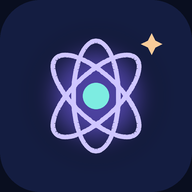
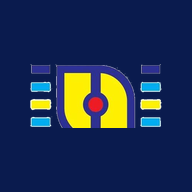
Add files via upload

diff --git a/index.html b/index.html
@@ -3,10 +3,10 @@
 <head>
   <meta charset="UTF-8">
   <meta name="viewport" content="width=device-width, initial-scale=1, viewport-fit=cover">
-  <meta name="theme-color" content="#0B1026">
+  <meta name="theme-color" content="#1E2F8A">
   <meta name="description" content="Física Abel Coelho: trilhas de estudo, fórmulas, desafios e um laboratório interativo. Instale e estude até sem internet.">
   <meta name="apple-mobile-web-app-capable" content="yes">
-  <meta name="apple-mobile-web-app-status-bar-style" content="black-translucent">
+  <meta name="apple-mobile-web-app-status-bar-style" content="default">
   <meta name="apple-mobile-web-app-title" content="Física Abel">
   <meta name="color-scheme" content="dark">
   <meta property="og:title" content="Física • Abel Coelho">
@@ -25,8 +25,8 @@
   <div class="app-shell">
     <header class="topbar">
       <a class="brand" href="#inicio" data-go="inicio" aria-label="Física Abel Coelho - início">
-        <span class="brand-icon" aria-hidden="true"><svg viewBox="0 0 48 48" fill="none"><circle cx="24" cy="24" r="4.4" fill="currentColor"/><ellipse cx="24" cy="24" rx="18" ry="8.4" stroke="currentColor" stroke-width="2.6" transform="rotate(-38 24 24)"/><ellipse cx="24" cy="24" rx="18" ry="8.4" stroke="currentColor" stroke-width="2.6" transform="rotate(38 24 24)"/></svg></span>
-        <span class="brand-copy"><strong>FÍSICA<span class="brand-dot">.</span></strong><small>ABEL COELHO</small></span>
+        <span class="brand-icon" aria-hidden="true"><img src="./assets/logo-abel-mark.png" alt=""></span>
+        <span class="brand-copy"><strong>FÍSICA<span class="brand-dot">.</span></strong><small>ESCOLA ESTADUAL PROFESSOR ABEL FREIRE COELHO</small></span>
       </a>
       <nav class="desktop-nav" aria-label="Navegação principal">
         <a href="#inicio" class="nav-link active" data-go="inicio">Início</a>
@@ -43,16 +43,16 @@
 
     <main id="main" tabindex="-1">
       <section class="view active" id="view-inicio" data-view="inicio" aria-labelledby="home-heading">
-        <div class="eyebrow greeting"><span class="eyebrow-line"></span> PLATAFORMA DE APRENDIZAGEM <span class="eyebrow-year">/ 2026</span></div>
+        <div class="eyebrow greeting"><span class="eyebrow-line"></span> PÁGINA INSTITUCIONAL DE FÍSICA <span class="eyebrow-year">/ ABEL COELHO</span></div>
         <section class="hero">
           <div class="hero-content">
-            <div class="hero-tag"><span class="live-dot"></span> SUA JORNADA COMEÇA AQUI</div>
+            <div class="hero-tag"><span class="live-dot"></span> IDENTIDADE VISUAL OFICIAL DA ESCOLA</div>
             <h1 id="home-heading">A Física está <em>em tudo.</em><br>Descubra o porquê.</h1>
-            <p>Das estrelas ao movimento de uma bola, explore as leis que explicam o universo — de um jeito simples, visual e interativo.</p>
+            <p>Das estrelas ao movimento de uma bola, explore as leis que explicam o universo em uma página institucional de Física com a identidade visual da Escola Estadual Professor Abel Freire Coelho.</p>
             <div class="hero-buttons"><button type="button" class="button button-primary" data-action="go-trilhas">Começar a estudar <span aria-hidden="true">↗</span></button><button type="button" class="button button-ghost" data-action="go-lab">Explorar laboratório <span aria-hidden="true">→</span></button></div>
-            <div class="hero-caption"><span class="tiny-stars" aria-hidden="true">✦ ✦ ✦</span> Feito para aprender no seu ritmo</div>
+            <div class="hero-caption"><span class="tiny-stars" aria-hidden="true">✦ ✦ ✦</span> Projeto institucional com a marca e as cores do Abel Coelho</div>
           </div>
-          <div class="hero-art" aria-hidden="true"><div class="art-glow"></div><div class="orbit-ring ring-a"></div><div class="orbit-ring ring-b"></div><div class="orbit-ring ring-c"></div><div class="orb-center"><span>Φ</span></div><div class="orbit-planetoid orb-a"></div><div class="orbit-planetoid orb-b"></div><div class="orbit-planetoid orb-c"></div><span class="art-star star-a">✧</span><span class="art-star star-b">✳</span><span class="art-star star-c">✦</span><span class="art-coordinate coordinate-top">E = mc²</span><span class="art-coordinate coordinate-bottom">F = m · a</span></div>
+          <div class="hero-art school-hero-art" aria-hidden="true"><div class="school-logo-card"><img src="./assets/logo-abel-full.png" alt="Logo da Escola Estadual Professor Abel Freire Coelho"></div><div class="school-color-ribbon ribbon-left"></div><div class="school-color-ribbon ribbon-right"></div><div class="school-color-chip chip-blue"></div><div class="school-color-chip chip-cyan"></div><div class="school-color-chip chip-yellow"></div><div class="school-color-chip chip-red"></div></div>
           <div class="hero-corner hero-corner-top" aria-hidden="true"></div><div class="hero-corner hero-corner-bottom" aria-hidden="true"></div>
         </section>
         <section class="stats-row" aria-label="Recursos disponíveis"><div class="stat"><div class="stat-icon violet">◈</div><div><strong>6</strong><span>Trilhas de estudo</span></div></div><div class="stat"><div class="stat-icon cyan">⌁</div><div><strong>18</strong><span>Aulas rápidas</span></div></div><div class="stat"><div class="stat-icon amber">✦</div><div><strong>3</strong><span>Desafios</span></div></div><div class="stat"><div class="stat-icon green">↓</div><div><strong>Offline</strong><span>Estude sem internet</span></div></div></section>
@@ -70,7 +70,7 @@
 
       <section class="view" id="view-formulas" data-view="formulas" aria-labelledby="formulas-heading" hidden><div class="page-head"><div><div class="eyebrow small">SEU GUIA DE CONSULTA</div><h1 id="formulas-heading">Fórmulas que <em>conectam.</em></h1><p>Um resumo prático de equações essenciais. Use a busca para encontrar o que precisa.</p></div><div class="page-head-symbol formula-symbol">ƒ</div></div><div class="formulas-toolbar"><label class="search-box" for="formulaSearch"><svg viewBox="0 0 24 24" width="19" height="19" fill="none" stroke="currentColor" stroke-width="2" aria-hidden="true"><circle cx="11" cy="11" r="7"/><path d="m16 16 5 5"/></svg><input type="search" id="formulaSearch" placeholder="Buscar fórmula, conceito ou símbolo..." autocomplete="off"></label><span id="formulaCount" class="formula-count"></span></div><div class="filter-row formula-filters" id="formulaFilters" role="group" aria-label="Filtrar fórmulas"></div><div class="formulas-grid" id="formulasGrid"></div><p class="empty-state" id="formulasEmpty" hidden>Nenhuma fórmula encontrada. Tente outro termo.</p><p class="formulas-note">* As fórmulas têm hipóteses de aplicação específicas, explicadas nas aulas. Use unidades do Sistema Internacional (SI) sempre que possível.</p></section>
 
-      <footer class="footer"><span><strong>FÍSICA<span class="period">.</span></strong> ABEL COELHO</span><span>Projeto educacional independente • Escola Estadual Professor Abel Freire Coelho</span><span>Feito com curiosidade ✳</span></footer>
+      <footer class="footer"><span class="footer-brand"><img src="./assets/logo-abel-mark.png" alt=""><span><strong>FÍSICA<span class="period">.</span></strong> ABEL COELHO</span></span><span>Página institucional • Escola Estadual Professor Abel Freire Coelho</span><span>Feito com curiosidade ✳</span></footer>
     </main>
 
     <nav class="mobile-nav" aria-label="Navegação móvel"><a href="#inicio" data-go="inicio" class="mobile-link active"><span class="mobile-icon" aria-hidden="true">⌂</span><span>Início</span></a><a href="#trilhas" data-go="trilhas" class="mobile-link"><span class="mobile-icon" aria-hidden="true">▤</span><span>Trilhas</span></a><a href="#laboratorio" data-go="laboratorio" class="mobile-link"><span class="mobile-icon" aria-hidden="true">⌁</span><span>Lab</span></a><a href="#desafios" data-go="desafios" class="mobile-link"><span class="mobile-icon" aria-hidden="true">◎</span><span>Desafios</span></a><a href="#formulas" data-go="formulas" class="mobile-link"><span class="mobile-icon" aria-hidden="true">ƒ</span><span>Fórmulas</span></a></nav>

diff --git a/styles.css b/styles.css
@@ -16,3 +16,89 @@
 
 /* Impede que o brilho decorativo crie rolagem horizontal em telas pequenas. */
 @media(max-width:620px){.ambient-two{display:none}}
+
+/* === Identidade visual Abel Coelho === */
+:root{
+  --bg:#091739;
+  --surface:#112452;
+  --surface2:#163066;
+  --line:#3556a6;
+  --muted:#c1d0ee;
+  --text:#f7fbff;
+  --purple:#293a98;
+  --purple2:#4155c5;
+  --cyan:#1fb2eb;
+  --orange:#f3e400;
+  --red:#ef2f37;
+}
+body{background:linear-gradient(180deg,#091739 0%,#0a1b43 100%)}
+.ambient-one{background:#263d95;opacity:.28}
+.ambient-two{background:#1fb2eb;opacity:.16}
+.topbar{border-bottom:1px solid rgba(74,118,214,.35)}
+.brand{gap:14px}
+.brand-icon{height:54px;width:54px;background:#fff;border:1px solid rgba(243,228,0,.5);box-shadow:0 10px 28px rgba(14,33,90,.35);border-radius:16px;overflow:hidden;padding:5px}
+.brand-icon img{width:100%;height:100%;object-fit:contain;display:block}
+.brand-copy strong{font-size:22px;color:#ffffff}
+.brand-copy small{max-width:265px;color:#dce6ff;letter-spacing:.11em;line-height:1.25}
+.brand-dot,.period{color:var(--orange)}
+.desktop-nav{background:rgba(17,36,82,.75);border-color:rgba(95,130,215,.36)}
+.nav-link.active{background:#294799;color:#fff}
+.install-btn{border:1px solid #f3e400;background:linear-gradient(135deg,#f3e400,#ffe95d);color:#18255a;box-shadow:0 6px 22px rgba(243,228,0,.28)}
+.eyebrow,.dialog-overline,.insight-top,.install-guide span,.lesson-overline{color:#8edcff}
+.eyebrow-line{background:var(--orange)}
+.hero{background:radial-gradient(circle at 75% 35%,rgba(31,178,235,.26) 0%,transparent 34%),linear-gradient(120deg,#10285f 0%,#142f70 55%,#1d2e84 100%);border:1px solid rgba(120,164,255,.42)}
+.hero-tag{background:rgba(255,255,255,.09);border:1px solid rgba(243,228,0,.38);color:#fff4a6}
+.live-dot{background:var(--orange);box-shadow:0 0 0 4px rgba(243,228,0,.2)}
+.hero h1 em,.page-head h1 em{color:#ffe95d}
+.button-primary{border:1px solid #f3e400;background:#f3e400;color:#16255d;box-shadow:0 10px 24px rgba(243,228,0,.23)}
+.button-ghost{border:1px solid rgba(170,205,255,.45);background:rgba(255,255,255,.08)}
+.button-light{background:#ffffff;color:#172863}
+.school-hero-art{display:flex;align-items:center;justify-content:center}
+.school-logo-card{width:min(100%,430px);background:rgba(255,255,255,.96);border:1px solid rgba(26,56,134,.22);border-radius:28px;padding:22px;box-shadow:0 22px 50px rgba(6,16,43,.28);position:relative;z-index:2}
+.school-logo-card img{width:100%;display:block;object-fit:contain}
+.school-color-ribbon{position:absolute;width:20px;height:210px;border-radius:18px;background:linear-gradient(180deg,#293a98 0%,#1fb2eb 35%,#f3e400 66%,#293a98 100%);opacity:.9;filter:drop-shadow(0 0 14px rgba(255,255,255,.18))}
+.ribbon-left{left:16px;top:72px}
+.ribbon-right{right:18px;bottom:58px}
+.school-color-chip{position:absolute;border-radius:50%;width:22px;height:22px;border:2px solid rgba(255,255,255,.55);box-shadow:0 0 0 8px rgba(255,255,255,.05)}
+.chip-blue{background:#293a98;right:12%;top:12%}
+.chip-cyan{background:#1fb2eb;left:13%;top:18%}
+.chip-yellow{background:#f3e400;left:20%;bottom:13%}
+.chip-red{background:#ef2f37;right:16%;bottom:11%}
+.stat-icon.violet,.quick-icon.purple,.page-head-symbol,.hero-corner,.filter-pill.selected,.formula-category,.mobile-link.active{background-color:rgba(41,58,152,.18);color:#dbe5ff}
+.stat-icon.cyan,.quick-icon.turquoise,.lab-symbol{background-color:rgba(31,178,235,.16);color:#84e0ff}
+.stat-icon.amber,.quick-icon.orange,.challenge-symbol{background-color:rgba(243,228,0,.15);color:#fff18c}
+.stat{background:#10224e;border-color:#274790}
+.continue-card{background:linear-gradient(135deg,#29419d,#1e2f8a);border-color:rgba(243,228,0,.28)}
+.progress-circle{background:conic-gradient(#f3e400 calc(var(--progress)*1%),rgba(255,255,255,.14) 0)}
+.progress-circle>div{background:#1a2b76}
+.insight-card{background:radial-gradient(ellipse at right top,rgba(31,178,235,.35) 0%,transparent 58%),#0f2a62;border-color:#2f5aa7}
+.insight-symbol,.formula-equation{color:#9be6ff}
+.text-link{color:#ffe95d}
+.quick-card,.track-card,.formula-card,.quiz-card,.quiz-box,.lab-controls,.lab-stage,.learning-summary,.install-guide>div,.search-box{background-color:#112452;border-color:#2d4e99}
+.track-meta span,.formula-count,.formula-card p,.page-head p,.formulas-note,.search-box input::placeholder{color:#bfd0ef}
+.track-chip{background:rgba(255,255,255,.08)}
+.track-badge{background:#f3e400;color:#1c295e}
+.filter-pill{border-color:#3556a6;background:#0d1f4b;color:#d6e3ff}
+.filter-pill.selected{background:#294799;color:#fff;border-color:#4f74d5}
+.learning-track,.slider-field input[type="range"],.quiz-progress{accent-color:#f3e400}
+.planet-choice.selected,.nav-link:hover,.mobile-link:hover{border-color:#f3e400;background:rgba(243,228,0,.12);color:#fff}
+.page-head-symbol,.quick-icon,.stat-icon{border:1px solid rgba(255,255,255,.08)}
+.lab-results>div{background:#112452;border-color:#2d4f98}
+.lab-tip,.lesson-real{background:rgba(31,178,235,.12);border-color:rgba(31,178,235,.24)}
+.search-box:focus-within{border-color:#f3e400}
+.footer-brand{display:flex;align-items:center;gap:10px}
+.footer-brand img{width:40px;height:40px;object-fit:contain;background:#fff;border-radius:10px;padding:4px;border:1px solid rgba(243,228,0,.45)}
+.footer{border-top:1px solid rgba(74,118,214,.3)}
+.custom-dialog{background:#12275b;border-color:#4765b6}
+.icon-close{background:#1e3b86;border-color:#6480cb}
+.install-emblem{color:#f3e400}
+.toast{background:#1d3477;border-color:#5d7fd8}
+.mobile-nav{background:rgba(11,27,69,.96);border-top-color:#2d4e99}
+@media(max-width:620px){
+  .brand-icon{width:43px;height:43px;padding:4px}
+  .brand-copy small{max-width:160px;font-size:7px;letter-spacing:.08em}
+  .school-logo-card{padding:16px;border-radius:22px}
+  .school-color-ribbon{height:130px;width:14px}
+  .ribbon-left{left:5px;top:110px}
+  .ribbon-right{right:4px;bottom:36px}
+}

diff --git a/sw.js b/sw.js
@@ -1,6 +1,6 @@
 /* App shell precache. Caminhos relativos permitem publicar no GitHub Pages em subpastas. */
-const CACHE_NAME='fisica-abel-coelho-v1';
-const PRECACHE=['./','./index.html','./styles.css','./app.js','./manifest.webmanifest','./icons/icon-192.png','./icons/icon-512.png','./icons/icon-512-maskable.png'];
+const CACHE_NAME='fisica-abel-coelho-v2';
+const PRECACHE=['./','./index.html','./styles.css','./app.js','./manifest.webmanifest','./icons/icon-192.png','./icons/icon-512.png','./icons/icon-512-maskable.png','./assets/logo-abel-full.png','./assets/logo-abel-mark.png'];
 self.addEventListener('install',event=>{event.waitUntil(caches.open(CACHE_NAME).then(cache=>cache.addAll(PRECACHE)).then(()=>self.skipWaiting()))});
 self.addEventListener('activate',event=>{event.waitUntil(caches.keys().then(keys=>Promise.all(keys.filter(key=>key.startsWith('fisica-abel-coelho-')&&key!==CACHE_NAME).map(key=>caches.delete(key)))).then(()=>self.clients.claim()))});
 self.addEventListener('fetch',event=>{const req=event.request;if(req.method!=='GET'||new URL(req.url).origin!==self.location.origin)return;if(req.mode==='navigate'){event.respondWith(fetch(req).then(response=>{if(response.ok){const copy=response.clone();caches.open(CACHE_NAME).then(cache=>cache.put(req,copy))}return response}).catch(async()=>await caches.match(req)||await caches.match('./index.html')));return}event.respondWith(caches.match(req).then(cached=>cached||fetch(req).then(response=>{if(response.ok){const copy=response.clone();caches.open(CACHE_NAME).then(cache=>cache.put(req,copy))}return response})))})
